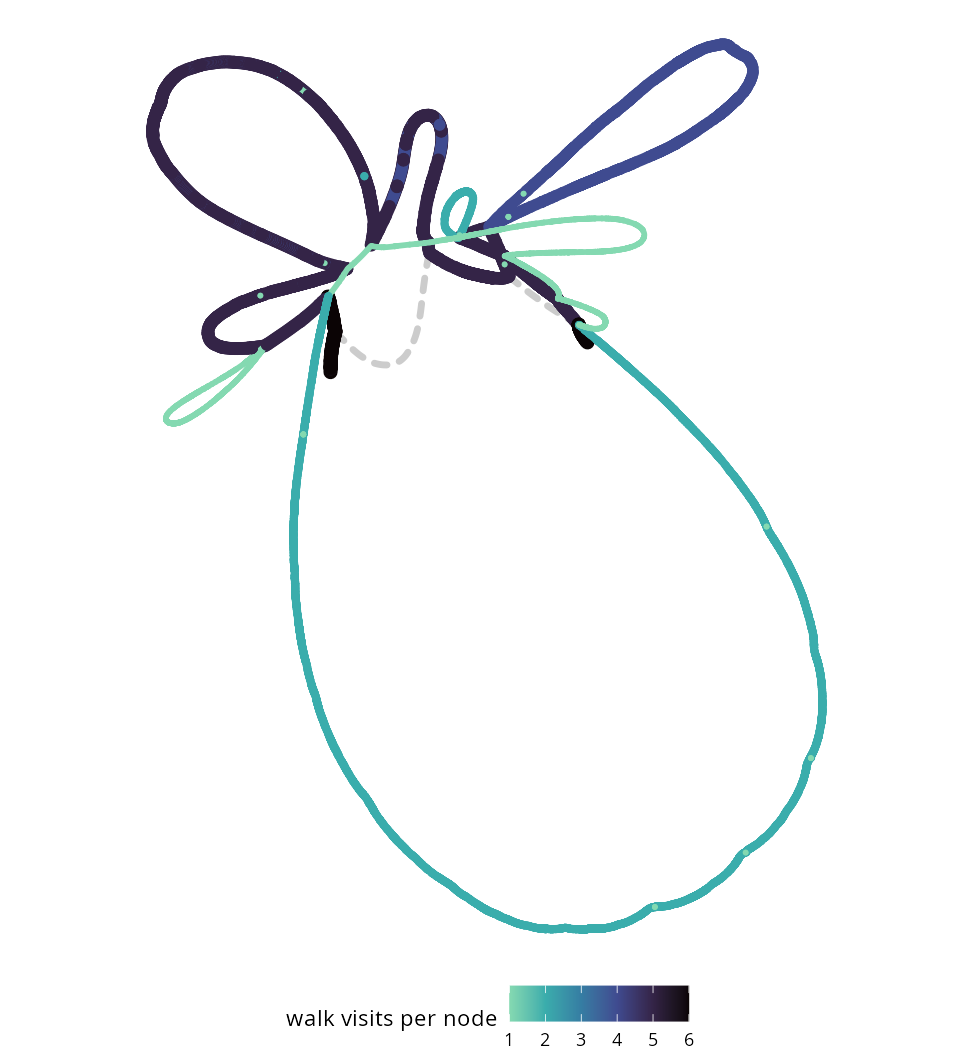
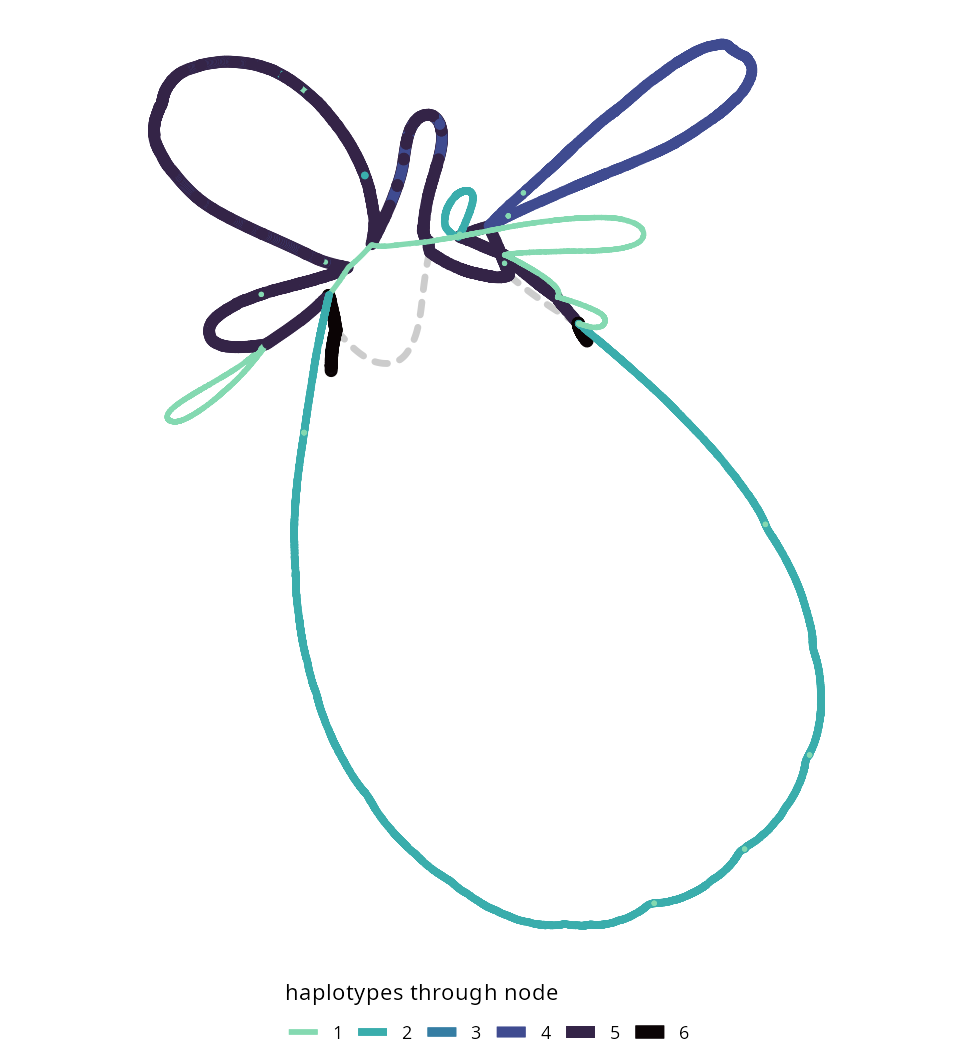
Show own_colours' haplotype count in one legend for colour and width
The figure coloured nodes by depth while the core widened them by depth
too, and the legend explained only the colour. The snippet now maps
colour and linewidth to the same count, one legend key per count, and
names it haplotypes through node, since no haplotype in the cut repeats
a node. A note says what the pale dots on dark strands are: 1 bp alleles
one or two haplotypes carry.

diff --git a/README.md b/README.md
@@ -78,7 +78,7 @@ kinds of index, exporting a region as GFA, and building a region's syng graph.
 <!-- gallery -->
 <table>
 <tr><td width="25%"><a href="docs/gallery.md#cfhr3-and-cfhr1-deleted-in-one-haplotype"><img src="gallery/cfh_overlay.png" alt="Force-directed CFH locus with GRCh38, HG00097 and HG02055 lifted together, each shaded along its own length: GRCh38 grey, HG00097 cyan to blue and HG02055 pink to plum. GRCh38 and HG00097 run the loop through CFHR3 and CFHR1, and HG02055 alone takes the dashed deletion edge under it. Walk rows below, each on its walk's ramp, give the lengths, GRCh38 and HG00097 260 kb and HG02055 176 kb, and the ribbons from HG00097 down to HG02055 break across the 85 kb HG02055 lacks" width="100%"></a><br>CFHR3 and CFHR1 deleted in one haplotype</td><td width="25%"><a href="docs/gallery.md#kiv-2-copy-number-as-walk-rows"><img src="gallery/kiv2_rows.png" alt="Walk rows at KIV-2 on a bp-from-flank axis: between the flanking reference nodes GRCh38 spans 31 kb and HG00133#2 164 kb, and the extra copies, on non-reference nodes, fall into three blocks: A, 68 kb walked by HG02055#1 and HG00133#2; B, 22 kb walked by four haplotypes; and C, 5.5 kb walked by two" width="100%"></a><br>KIV-2 copy number as walk rows</td><td width="25%"><a href="docs/gallery.md#amylase-haplotypes-from-146-to-475-kb"><img src="gallery/amylase_rows.png" alt="Walk rows over the salivary amylase genes for GRCh38 and seven haplotypes, each bar coloured by the GRCh38 position it covers: against GRCh38's 240 kb the haplotypes span 146 kb to 475 kb. HG00128#1 and HG002#1 walk the non-reference block A twice, CHM13 and HG00097#2 once, HG00099#1 and HG00097#1 walk block C in its place, and HG00097#1 has a 19 kb stretch the graph lacks, drawn as an open box" width="100%"></a><br>Amylase haplotypes from 146 to 475 kb</td><td width="25%"><a href="docs/gallery.md#cyp2d6-deletion-as-an-arch-over-the-gene"><img src="gallery/cyp2d6_stress.png" alt="Stress layout of CYP2D6 from the hosted index, GRCh38 drawn straight and coloured by position from NDUFA6-DT to CYP2D7, exons outlined in gold: a dashed arch spans CYP2D6, the route of haplotypes that skip the gene, and non-reference sequence hangs in charcoal loops above and below" width="100%"></a><br>CYP2D6 deletion as an arch over the gene</td></tr>
-<tr><td width="25%"><a href="docs/gallery.md#kiv-2-expansions-as-extra-loops"><img src="gallery/kiv2_overlay.png" alt="Force-directed KIV-2 array with GRCh38, HG00133 and HG00097 lifted together, each shaded along its own length from light to mid-tone: GRCh38 grey, HG00133 cyan to blue, 133 kb longer, and HG00097 yellow to red-orange, 22.2 kb longer. Where walks share nodes their lanes run side by side. HG00133 and HG00097 run the loop at the right together, and HG00133 alone runs the large loop below and the loops at the top right and left. Walk rows below, each on its walk's ramp under a grey strip where it runs on the GRCh38 path, give the lengths: GRCh38 31 kb, HG00133 164 kb and HG00097 53 kb, with the right loop outlined as block A in both" width="100%"></a><br>KIV-2 expansions as extra loops</td><td width="25%"><a href="docs/gallery.md#c4-copies-as-threads-round-an-impg-syng-graph"><img src="gallery/syng_overlay.png" alt="The syng graph of C4 with three walks lifted together, each shaded light to dark along its own length, grch38#chr6 grey, HG01978#2 cyan to blue and HG01952#1 peach to rust, and a thread for every pass through a node: round the ring, outside in, grch38#chr6 draws two threads, HG01978#2 three, its extra C4 copy, and HG01952#1 two, each pass darker than the one before. Grey and blue threads run round the HERV-K loop at the left, and the orange ones cut across it. Walk rows below, each on its walk's ramp under a grey strip where it runs on the grch38 path, give the lengths: grch38#chr6 84 kb, HG01978#2 116 kb and HG01952#1 71 kb" width="100%"></a><br>C4 copies as threads round an impg syng graph</td><td width="25%"><a href="docs/gallery.md#rhd-deletion-and-duplication-in-an-impg-syng-graph"><img src="gallery/syng_rhd.png" alt="Force-directed syng graph of RHD from 19 HPRC haplotypes with three walks lifted together, each shaded light to dark along its own length, grch38 grey, HG01106#1 cyan to blue and HG01258#2 peach to rust, and a thread for every pass through a node. Through the Rhesus box at the left, grch38 draws two threads, HG01106#1 three and HG01258#2 one, each pass darker than the one before. Round the loop at the top, labelled RHD, grch38 draws one thread, HG01106#1 two, its second RHD, and HG01258#2 none, taking the box straight on to the loop below, labelled TMEM50A and RHCE, that every walk runs once. In the walk rows below, each on its walk's ramp under a grey strip where it runs on the grch38 path, grch38 spans 202 kb, HG01106#1 272 kb and HG01258#2 132 kb" width="100%"></a><br>RHD deletion and duplication in an impg syng graph</td><td width="25%"><a href="docs/gallery.md#your-own-colours-kiv-2-nodes-by-walk-visits"><img src="gallery/own_colours.png" alt="The KIV-2 array cut from the walk file, force-directed and drawn with plain ggplot2 layers: grey edges, and each node coloured by how many times the cut's walks visit it, light for once to dark for six" width="100%"></a><br>Your own colours: KIV-2 nodes by walk visits</td></tr>
+<tr><td width="25%"><a href="docs/gallery.md#kiv-2-expansions-as-extra-loops"><img src="gallery/kiv2_overlay.png" alt="Force-directed KIV-2 array with GRCh38, HG00133 and HG00097 lifted together, each shaded along its own length from light to mid-tone: GRCh38 grey, HG00133 cyan to blue, 133 kb longer, and HG00097 yellow to red-orange, 22.2 kb longer. Where walks share nodes their lanes run side by side. HG00133 and HG00097 run the loop at the right together, and HG00133 alone runs the large loop below and the loops at the top right and left. Walk rows below, each on its walk's ramp under a grey strip where it runs on the GRCh38 path, give the lengths: GRCh38 31 kb, HG00133 164 kb and HG00097 53 kb, with the right loop outlined as block A in both" width="100%"></a><br>KIV-2 expansions as extra loops</td><td width="25%"><a href="docs/gallery.md#c4-copies-as-threads-round-an-impg-syng-graph"><img src="gallery/syng_overlay.png" alt="The syng graph of C4 with three walks lifted together, each shaded light to dark along its own length, grch38#chr6 grey, HG01978#2 cyan to blue and HG01952#1 peach to rust, and a thread for every pass through a node: round the ring, outside in, grch38#chr6 draws two threads, HG01978#2 three, its extra C4 copy, and HG01952#1 two, each pass darker than the one before. Grey and blue threads run round the HERV-K loop at the left, and the orange ones cut across it. Walk rows below, each on its walk's ramp under a grey strip where it runs on the grch38 path, give the lengths: grch38#chr6 84 kb, HG01978#2 116 kb and HG01952#1 71 kb" width="100%"></a><br>C4 copies as threads round an impg syng graph</td><td width="25%"><a href="docs/gallery.md#rhd-deletion-and-duplication-in-an-impg-syng-graph"><img src="gallery/syng_rhd.png" alt="Force-directed syng graph of RHD from 19 HPRC haplotypes with three walks lifted together, each shaded light to dark along its own length, grch38 grey, HG01106#1 cyan to blue and HG01258#2 peach to rust, and a thread for every pass through a node. Through the Rhesus box at the left, grch38 draws two threads, HG01106#1 three and HG01258#2 one, each pass darker than the one before. Round the loop at the top, labelled RHD, grch38 draws one thread, HG01106#1 two, its second RHD, and HG01258#2 none, taking the box straight on to the loop below, labelled TMEM50A and RHCE, that every walk runs once. In the walk rows below, each on its walk's ramp under a grey strip where it runs on the grch38 path, grch38 spans 202 kb, HG01106#1 272 kb and HG01258#2 132 kb" width="100%"></a><br>RHD deletion and duplication in an impg syng graph</td><td width="25%"><a href="docs/gallery.md#your-own-colours-kiv-2-by-haplotypes-per-node"><img src="gallery/own_colours.png" alt="The KIV-2 array cut from the walk file, force-directed and drawn with plain ggplot2 layers: grey edges, and each node coloured and sized by how many of the six haplotypes, GRCh38 and the five named, run through it, from a thin pale line for one to a thick dark line for all six" width="100%"></a><br>Your own colours: KIV-2 by haplotypes per node</td></tr>
 </table>
 <!-- /gallery -->
 

diff --git a/docs/gallery.md b/docs/gallery.md
@@ -180,11 +180,17 @@ rows <- bandage_walk_rows(rhd_syng, haplotypes = haps)
 autoplot(g) / autoplot(rows, ribbons = FALSE, hues = "walk", layout = g) + plot_layout(heights = c(1.6, 1))
 ```
 
-## Your own colours: KIV-2 nodes by walk visits
+## Your own colours: KIV-2 by haplotypes per node
 
 `chr6:160,616,004-160,646,753`
 
-![The KIV-2 array cut from the walk file, force-directed and drawn with plain ggplot2 layers: grey edges, and each node coloured by how many times the cut's walks visit it, light for once to dark for six](../gallery/own_colours.png)
+- Colour and width both show `depth`, how many of the six haplotypes run through
+  a node. `depth` counts every pass, so where a cut's haplotype runs a node twice
+  it counts twice; no haplotype in this cut repeats a node.
+- A pale dot on a dark strand is a 1 bp node that one or two haplotypes carry, a
+  single-base variant inside a copy the rest share.
+
+![The KIV-2 array cut from the walk file, force-directed and drawn with plain ggplot2 layers: grey edges, and each node coloured and sized by how many of the six haplotypes, GRCh38 and the five named, run through it, from a thin pale line for one to a thick dark line for all six](../gallery/own_colours.png)
 
 ```r
 library(ggbandage)
@@ -195,16 +201,16 @@ kiv2 <- "chr6:160,616,004-160,646,753"
 five <- c("HG00097#1", "HG00099#1", "HG00133#2", "HG01123#1", "HG02055#1")
 
 g <- bandage_layout(walks, region = kiv2, haplotypes = five)
+haplotypes <- "haplotypes through node"
 ggplot(g) +
   geom_bandage_edges(aes(colour = I("grey80"))) +
-  geom_bandage_nodes(aes(colour = depth)) +
-  scale_colour_viridis_c(
-    "walk visits per node",
-    option = "mako", direction = -1, end = 0.85, breaks = 1:6
-  ) +
+  geom_bandage_nodes(aes(colour = factor(depth), linewidth = factor(depth))) +
+  scale_colour_viridis_d(haplotypes, option = "mako", direction = -1, end = 0.85) +
+  scale_linewidth_manual(haplotypes, values = 1.2 * sqrt(1:6)) +
+  guides(colour = guide_legend(nrow = 1), linewidth = guide_legend(nrow = 1)) +
   coord_fixed() +
   theme_void() +
-  theme(legend.position = "bottom")
+  theme(legend.position = "bottom", legend.title.position = "top")
 ```
 
 ## More examples
